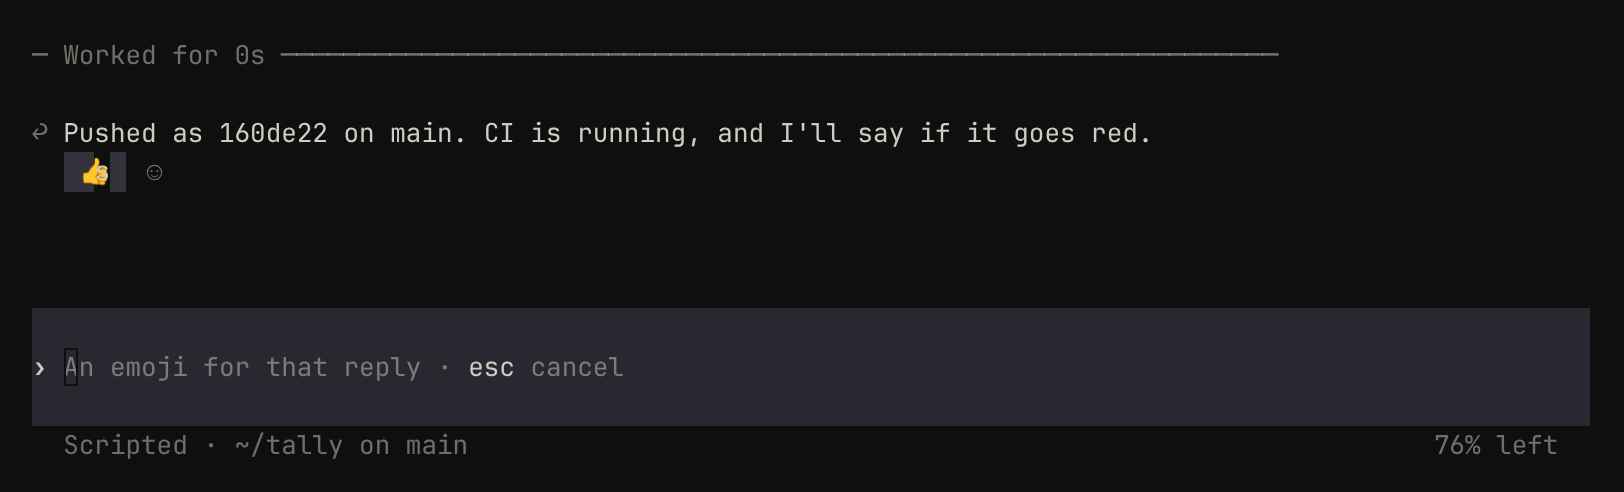
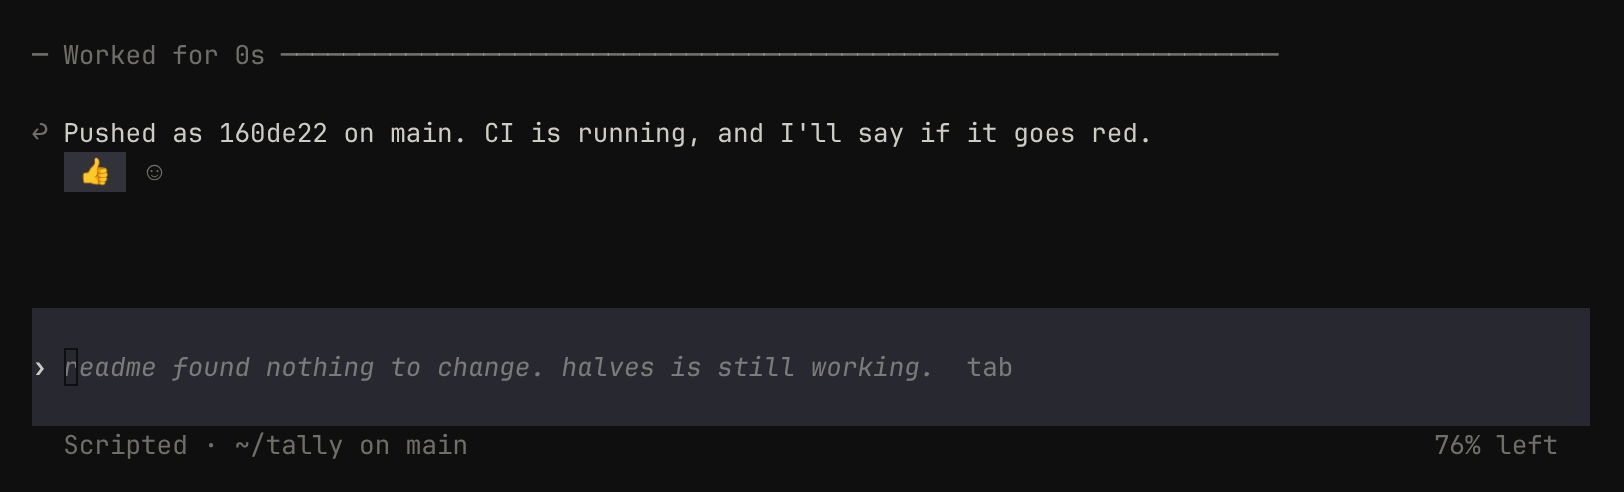
Sonny: ☺ lined up with where a reaction lands
With no reactions yet, the mark sat a column left of where the first
reaction's emoji is drawn inside its pill, so a click moved what you
saw. It takes that column now; after reactions it stays a space past
the pill. The screenshot is drawn again with emoji at their real width
(the renderer had drawn 👍 a cell wide, leaving a stray letter in the
pill).

Claude-Session: https://claude.ai/code/session_013jkdGG9cqaSZudJYZAj93Q

Changed region(s): [[0.0308, 0.7317, 0.6466, 0.7622], [0.0616, 0.3049, 0.0924, 0.3963]]

diff --git a/sonny/src/screen.rs b/sonny/src/screen.rs
@@ -1614,9 +1614,10 @@ impl Screen {
     }
 
     /// Where the react mark of the agent's message `hovered` goes, as a
-    /// row in `shown` and a column: after the reactions under it when it
-    /// has some; else at their place on the blank row under it; else, with
-    /// no such row in the conversation yet, after its last words.
+    /// row in `shown` and a column: a space past the pill of its reactions
+    /// when it has some; else on the blank row under it, in the column a
+    /// first reaction's emoji takes inside its pill; else, with no such row
+    /// in the conversation yet, after its last words.
     fn react_spot(&self, hovered: &Hovered) -> Option<(usize, usize)> {
         let first = |row: usize| {
             (self.shown.iter().enumerate())
@@ -1636,7 +1637,7 @@ impl Screen {
                 Some((at, self.shown[at].line.width() + 1))
             }
             Some(row) if row.tag.is_none() && row.line.width() == 0 => {
-                Some((first(hovered.end + 1)?, 2))
+                Some((first(hovered.end + 1)?, 3))
             }
             Some(_) => None,
             // The last row: its last shown line, past its words.
@@ -2306,14 +2307,14 @@ mod tests {
         // its reactions would go.
         screen.mouse(mouse(MouseEventKind::Moved, 6, 0));
         let buf = draw(&mut screen);
-        assert_eq!(row(&buf, 2).trim_end(), format!("  {REACT}"));
+        assert_eq!(row(&buf, 2).trim_end(), format!("   {REACT}"));
         // The mouse on its way down to it keeps it there, and a click
         // picks the message.
-        screen.mouse(mouse(MouseEventKind::Moved, 2, 2));
+        screen.mouse(mouse(MouseEventKind::Moved, 3, 2));
         let buf = draw(&mut screen);
         assert!(row(&buf, 2).contains(REACT));
         assert_eq!(
-            screen.mouse(mouse(MouseEventKind::Down(MouseButton::Left), 2, 2)),
+            screen.mouse(mouse(MouseEventKind::Down(MouseButton::Left), 3, 2)),
             Some(Action::Open(format!("{BUTTON}react/5")))
         );
         // The person's own message gets the reply mark only.
@@ -2338,6 +2339,7 @@ mod tests {
             under.contains('👍') && under.trim_end().ends_with(REACT),
             "{under:?}"
         );
+        // A space past the pill.
         assert_eq!(buf[(7, 2)].symbol(), REACT);
         // The reactions row is the message's too.
         screen.mouse(mouse(MouseEventKind::Moved, 1, 2));
